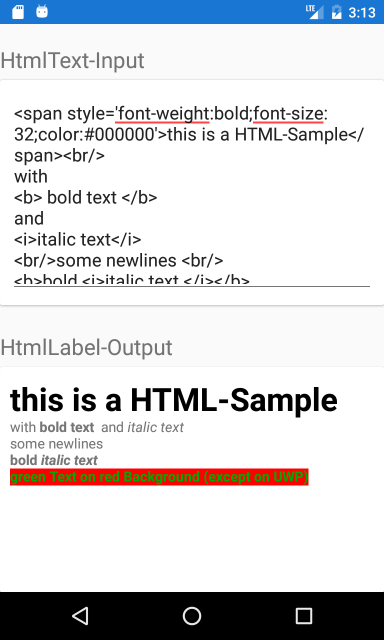
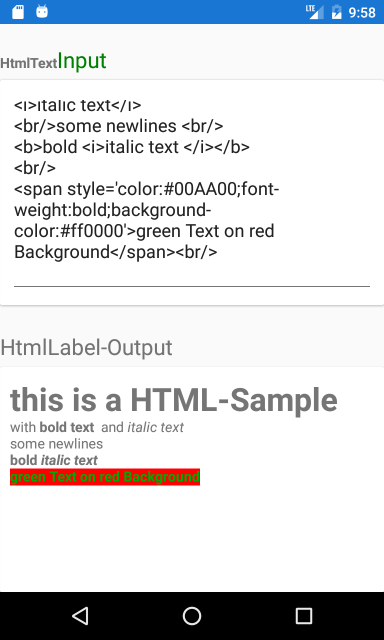
Fix for iOS and Screenshot update

diff --git a/HtmlLabelTest/HtmlLabelTest/MainPage.xaml b/HtmlLabelTest/HtmlLabelTest/MainPage.xaml
@@ -12,13 +12,22 @@
                 <RowDefinition Height="50" />
                 <RowDefinition Height="*" />
             </Grid.RowDefinitions>
-            <Label Text="HtmlText-Input" Grid.Row="0" FontSize="Large" VerticalTextAlignment="End" />
+            <Label Grid.Row="0" FontSize="Large" VerticalTextAlignment="End" >
+                <Label.FormattedText>
+                    <FormattedString>
+                        <FormattedString.Spans>
+                            <Span FontAttributes="Bold" >HtmlText</Span>
+                            <Span ForegroundColor="Green">Input</Span>
+                        </FormattedString.Spans>
+                    </FormattedString>
+                </Label.FormattedText>
+            </Label>
             <Frame Grid.Row="1" OutlineColor="gray" Padding="10" Margin="0">
                 <Editor x:Name="htmlInput" />
             </Frame>
             <Label Text="HtmlLabel-Output" Grid.Row="2" FontSize="Large" VerticalTextAlignment="End"  />
             <Frame Grid.Row="3" OutlineColor="gray" Padding="10" Margin="0" VerticalOptions="FillAndExpand"  HorizontalOptions="FillAndExpand">
-                <html:HtmlLabel x:Name="htmlLabel" HtmlText="{Binding Text, Source={x:Reference htmlInput}}" VerticalOptions="FillAndExpand"  HorizontalOptions="FillAndExpand" LineBreakMode="WordWrap"/>
+                <html:HtmlLabel x:Name="htmlLabel" HtmlText="{Binding Text, Source={x:Reference htmlInput}}" VerticalOptions="FillAndExpand"  HorizontalOptions="FillAndExpand" />
             </Frame>
         </Grid>
     </ContentPage.Content>

diff --git a/HtmlLabel/HtmlHelper.cs b/HtmlLabel/HtmlHelper.cs
@@ -10,7 +10,7 @@ namespace MWX.XamForms.Controls
 {
     public class HtmlHelper
     {
-        public static FormattedString Html2LabelSpans(string html, bool ignoreNewLines = true)
+        public static FormattedString Html2LabelSpans(string html, bool ignoreNewLines = true, Label l = null)
         {
             FormattedString fstring = new FormattedString();
             try
@@ -19,7 +19,7 @@ namespace MWX.XamForms.Controls
 
                 XElement root = XElement.Parse(xml);
 
-                ProcessNodes(fstring, root, new StyleContainer(), ignoreNewLines);
+                ProcessNodes(fstring, root, new StyleContainer(l), ignoreNewLines, l);
 
             }
             catch (Exception ex)
@@ -34,7 +34,7 @@ namespace MWX.XamForms.Controls
             return fstring;
         }
 
-        private static void ProcessNodes(FormattedString fstring, XElement xe, StyleContainer cont, bool ignoreNewLines)
+        private static void ProcessNodes(FormattedString fstring, XElement xe, StyleContainer cont, bool ignoreNewLines, Label l)
         {
             foreach (var node in xe.Nodes())
             {
@@ -46,21 +46,21 @@ namespace MWX.XamForms.Controls
                         {
                             var boldCont = cont.Clone();
                             ProcessStyles(element, boldCont);
-                            ProcessNodes(fstring, element, boldCont, ignoreNewLines);
+                            ProcessNodes(fstring, element, boldCont, ignoreNewLines, l);
                         }
                         else if (element.Name.LocalName.ToLower() == "b")
                         {
                             var boldCont = cont.Clone();
                             boldCont.FontAttributes |= FontAttributes.Bold;
                             ProcessStyles(element, boldCont);
-                            ProcessNodes(fstring, element, boldCont, ignoreNewLines);
+                            ProcessNodes(fstring, element, boldCont, ignoreNewLines, l);
                         }
                         else if (element.Name.LocalName.ToLower() == "i")
                         {
                             var boldCont = cont.Clone();
                             ProcessStyles(element, boldCont);
                             boldCont.FontAttributes |= FontAttributes.Italic;
-                            ProcessNodes(fstring, element, boldCont, ignoreNewLines);
+                            ProcessNodes(fstring, element, boldCont, ignoreNewLines, l);
                         }
                         else if (element.Name.LocalName.ToLower() == "br")
                         {
@@ -145,6 +145,7 @@ namespace MWX.XamForms.Controls
             //public Font Font { get; set; }
             public Color ForegroundColor { get; set; }
             public FontAttributes FontAttributes { get; set; }
+            //public Font Font { get; private set; }
             public string FontFamily { get; set; }
             public double FontSize { get; set; }
 
@@ -172,6 +173,20 @@ namespace MWX.XamForms.Controls
                     FontFamily = this.FontFamily,
                     FontSize = this.FontSize
                 };
+            }
+
+            public StyleContainer()
+            {
+
+            }
+
+            public StyleContainer(Label l)
+            {
+                this.BackgroundColor = l.BackgroundColor;
+                this.ForegroundColor = l.TextColor;
+                this.FontAttributes = l.FontAttributes;
+                this.FontFamily = l.FontFamily;
+                this.FontSize = l.FontSize;
             }
         }
     }

diff --git a/HtmlLabel/HtmlLabel.cs b/HtmlLabel/HtmlLabel.cs
@@ -16,8 +16,13 @@ namespace MWX.XamForms.Controls
             var instance = bindable as HtmlLabel;
             if (instance != null)
             {
-                instance.FormattedText = HtmlHelper.Html2LabelSpans(Convert.ToString(newValue), instance.IgnoreNewLine);
+                instance.setHtml();
             }
+        }
+
+        private void setHtml()
+        {
+            this.FormattedText = HtmlHelper.Html2LabelSpans(HtmlText, IgnoreNewLine, this);
         }
 
         /// <summary>
@@ -36,7 +41,7 @@ namespace MWX.XamForms.Controls
             var instance = bindable as HtmlLabel;
             if (instance != null)
             {
-                instance.FormattedText = HtmlHelper.Html2LabelSpans(instance.HtmlText, Convert.ToBoolean(newValue));
+                instance.setHtml();                
             }
         }
 

diff --git a/HtmlLabelTest/HtmlLabelTest/MainPage.xaml.cs b/HtmlLabelTest/HtmlLabelTest/MainPage.xaml.cs
@@ -20,7 +20,7 @@ and
 <br/>some newlines <br/>
 <b>bold <i>italic text </i></b>
 <br/>
-<span style='color:#00AA00;font-weight:bold;background-color:#ff0000'>green Text on red Background (except on UWP)</span><br/>
+<span style='color:#00AA00;font-weight:bold;background-color:#ff0000'>green Text on red Background</span><br/>
 ";
         }
     }
